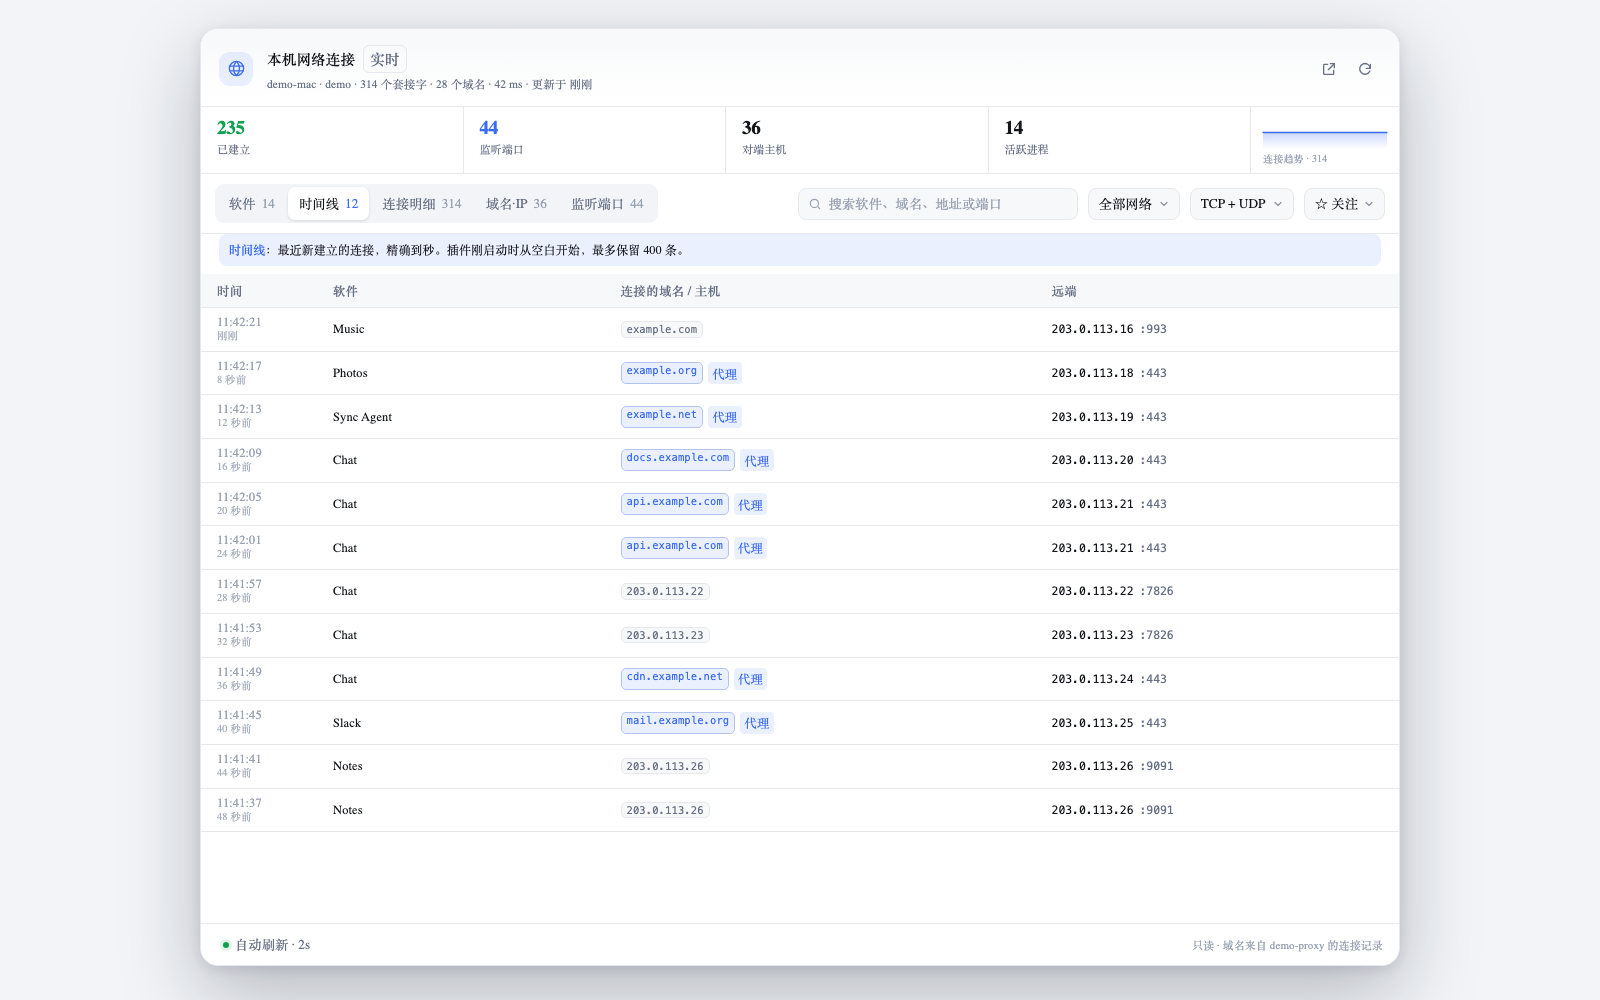
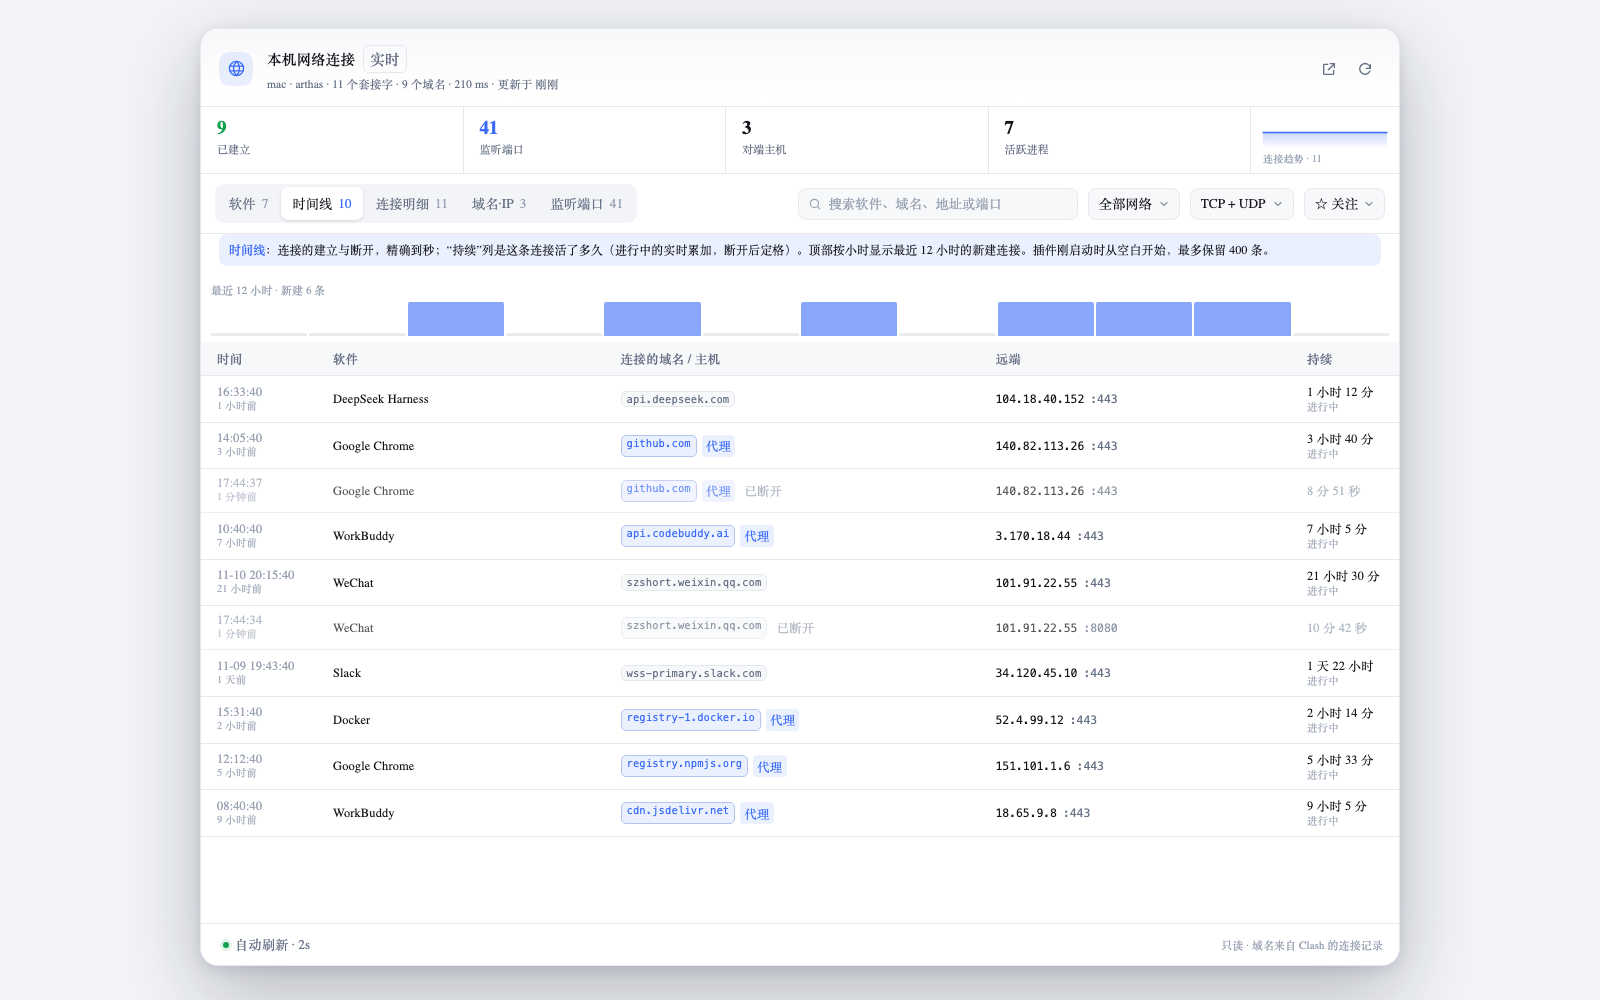
docs: 重截时间线截图（持续列 + 12 小时分布），柱状图改用像素高度与实心色

diff --git a/lib/ui.js b/lib/ui.js
@@ -428,8 +428,8 @@
   .nh-hist { display:flex; flex-direction:column; gap:4px; padding:8px 10px 6px; border-bottom:1px solid var(--nh-line); }
   .nh-hist-label { font-size:11px; color:var(--nh-faint); }
   .nh-hist-bars { display:flex; align-items:flex-end; gap:2px; height:34px; }
-  .nh-bar { flex:1; min-height:2px; border-radius:2px 2px 0 0; background:var(--nh-accent-soft); border-top:2px solid var(--nh-accent); }
-  .nh-bar.is-empty { background:var(--nh-line); border-top-color:transparent; }
+  .nh-bar { flex:1; border-radius:2px 2px 0 0; background:var(--nh-accent); opacity:.6; }
+  .nh-bar.is-empty { background:var(--nh-faint); opacity:.22; }
   .nh-mini {
     flex: none; font: 500 9.5px/1 inherit; letter-spacing: .2px;
     color: var(--nh-accent); background: var(--nh-accent-soft);
@@ -1522,6 +1522,8 @@
     }
 
     /** 时间线顶部的一条 12 小时分布：哪一段时间新连接扎堆。 */
+    const HIST_HEIGHT = 34
+
     function histogramStrip(events, nowTs) {
       const buckets = connectionHistogram(events, nowTs)
       const peak = Math.max(1, ...buckets)
@@ -1529,10 +1531,10 @@
       if (!total) return ''
       const bars = buckets.map((count, index) => {
         const hoursAgo = buckets.length - 1 - index
-        const height = count ? Math.max(8, Math.round((count / peak) * 100)) : 2
+        const height = count ? Math.max(4, Math.round((count / peak) * HIST_HEIGHT)) : 3
         const label = hoursAgo === 0 ? '最近一小时' : `${hoursAgo} 小时前`
         const title = `${label}：${count} 条新连接`
-        return `<span class="nh-bar${count ? '' : ' is-empty'}" style="height:${height}%" title="${esc(title)}"></span>`
+        return `<span class="nh-bar${count ? '' : ' is-empty'}" style="height:${height}px" title="${esc(title)}"></span>`
       }).join('')
       return `<div class="nh-hist"><span class="nh-hist-label">最近 ${buckets.length} 小时 · 新建 ${total} 条</span><div class="nh-hist-bars">${bars}</div></div>`
     }
